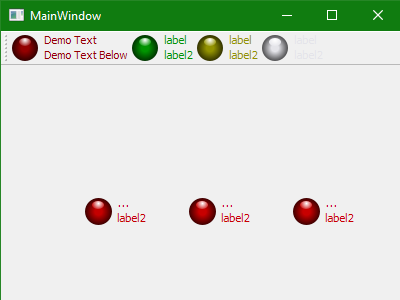
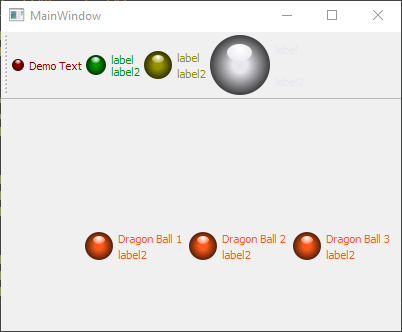
add size variable to led

Changed region(s): [[0.0, 0.0, 1.0, 1.0]]

diff --git a/mytoolbutton.cpp b/mytoolbutton.cpp
@@ -2,12 +2,9 @@
 #include <QPainter>
 #include <QBrush>
 #include <QLinearGradient>
-#include <QDebug>
-#include <QThread>
-
 
 MyToolButton::MyToolButton(QWidget *parent)
-    : QToolButton(parent), iDir(1), m_ledColor(QColor(Qt::red)), m_label("label"), m_label2("label2")
+    : QToolButton(parent), m_ledColor(QColor(Qt::red)), m_label("label"), m_label2("label2"), iDir(1), m_Width(LED_WIDTH)
 {
 }
 
@@ -25,8 +22,12 @@ void MyToolButton::paintEvent(QPaintEvent * e)
     int textLength=l_qFontMetrics.width(" "+m_label+" ");
     int textLength2=l_qFontMetrics.width(" "+m_label2+" ");
 
-    textLength = textLength2>textLength?textLength2:textLength;
-    setFixedWidth(textLength+LED_WIDTH);
+    if(m_Width>=24)
+    {
+        textLength = textLength2>textLength?textLength2:textLength;
+    }
+    setFixedWidth(textLength+m_Width);
+    setFixedHeight(m_Width);
     drawLed(textLength);
 }
 
@@ -64,7 +65,7 @@ void MyToolButton::drawLed(int p_length)
     randColor();
     qreal l_margin = 4;
     qreal l_height = height()-l_margin;
-    QRadialGradient gradient(1+l_height/2, l_height/2+l_margin/2, 18);
+    QRadialGradient gradient(1+l_height/2, l_height/2+l_margin/2, m_Width*3/5);
 
     gradient.setColorAt(0.0, m_ledColor);
     gradient.setColorAt(0.2, m_ledColor);
@@ -73,22 +74,31 @@ void MyToolButton::drawLed(int p_length)
     painter.setPen( Qt::NoPen );
     painter.drawEllipse(1,static_cast<int>(l_margin/2),static_cast<int>(l_height),static_cast<int>(l_height));
 
-    qreal l_highlight = 12;
-    QRadialGradient radGrad(1+l_height/2,l_height/2+l_margin/2-8, 7);
+    qreal l_highlight = m_Width*2/5;
+    QRadialGradient radGrad(1+l_height/2,l_height/2+l_margin/2-m_Width/4, m_Width/4);
 
     radGrad.setColorAt(0.0, Qt::white);
     radGrad.setColorAt(1.0, m_ledColor);
     painter.setBrush(radGrad);
     painter.setPen(Qt::NoPen);
-    painter.drawEllipse(static_cast<int>(1+l_height/2-l_highlight/2),static_cast<int>(l_height/2-l_highlight/2+l_margin/2-4),static_cast<int>(l_highlight),static_cast<int>(l_highlight-4));
+    painter.drawEllipse(static_cast<int>(1+l_height/2-l_highlight/2),static_cast<int>(l_height/2-l_highlight/2+l_margin/2-m_Width/8),static_cast<int>(l_highlight),static_cast<int>(l_highlight-m_Width/8));
 
 
-    painter.setPen(m_ledColor);
-    QRect rect(LED_WIDTH,0,p_length,height()/2);
-    painter.drawText(rect,Qt::AlignLeft," "+m_label+" ");
+    if(m_Width < 24)
+    {
+        painter.setPen(m_ledColor);
+        QRect rect(m_Width,0,p_length,height());
+        painter.drawText(rect,Qt::AlignLeft | Qt::AlignVCenter," "+m_label+" ");
+    }
+    else
+    {
+        painter.setPen(m_ledColor);
+        QRect rect(m_Width,0,p_length,height()/2);
+        painter.drawText(rect,Qt::AlignLeft | Qt::AlignVCenter," "+m_label+" ");
 
-    QRect rect2(LED_WIDTH,height()/2,p_length,height()/2);
-    painter.drawText(rect2,Qt::AlignLeft," "+m_label2+" ");
+        QRect rect2(m_Width,height()/2,p_length,height()/2);
+        painter.drawText(rect2,Qt::AlignLeft | Qt::AlignVCenter," "+m_label2+" ");
+    }
 }
 
 

diff --git a/mainwindow.cpp b/mainwindow.cpp
@@ -1,8 +1,6 @@
 #include "mainwindow.h"
 #include "ui_mainwindow.h"
 #include "mytoolbutton.h"
-#include <QDebug>
-
 
 MainWindow::MainWindow(QWidget *parent) :
     QMainWindow(parent),
@@ -10,7 +8,9 @@ MainWindow::MainWindow(QWidget *parent) :
 {
 
     ui->setupUi(this);
-    // ui->mainToolBar->setFixedHeight(100);
+    ui->toolButton->setLedColor(QColor(248, 91, 26));
+    ui->toolButton_2->setLedColor(QColor(248, 91, 26));
+    ui->toolButton_3->setLedColor(QColor(248, 91, 26));
 
     QTimer *timer = new QTimer(this);
     connect(timer, SIGNAL(timeout()), this, SLOT(timerUpdate()) );
@@ -20,18 +20,22 @@ MainWindow::MainWindow(QWidget *parent) :
     qbutton->setLedColor(QColor(255,0,0,255));
     qbutton->setText("Demo Text");
     qbutton->setText2("Demo Text Below");
+    qbutton->setLedWidth(16);
     ui->mainToolBar->addWidget(qbutton);
 
     MyToolButton *button = new MyToolButton;
     button->setLedColor(QColor(Qt::green));
+    button->setLedWidth(24);
     ui->mainToolBar->addWidget(button);
 
     MyToolButton *button2 = new MyToolButton;
     button2->setLedColor(QColor(Qt::yellow));
+    button2->setLedWidth(32);
     ui->mainToolBar->addWidget(button2);
 
     MyToolButton *button3 = new MyToolButton;
     button3->setLedColor(QColor(Qt::gray));
+    button3->setLedWidth(64);
     ui->mainToolBar->addWidget(button3);
 }
 

diff --git a/mytoolbutton.h b/mytoolbutton.h
@@ -5,7 +5,7 @@
 #include <QToolButton>
 #include <QTimer>
 #include <QTime>
-#define LED_WIDTH 31
+#define LED_WIDTH 32
 
 class MyToolButton : public QToolButton
 {
@@ -16,6 +16,7 @@ public:
     inline void setLedColor(QColor c) { m_ledColor = c; }
     inline void setText(QString s) { m_label = s; }
     inline void setText2(QString s) { m_label2 = s; }
+    inline void setLedWidth(int w) { m_Width = w; }
 protected:
     void paintEvent(QPaintEvent *event);
 
@@ -24,7 +25,7 @@ private:
     void drawLed(int length);
     QColor m_ledColor;
     QString m_label, m_label2;
-    int iDir;
+    int iDir, m_Width;
 };
 
 
